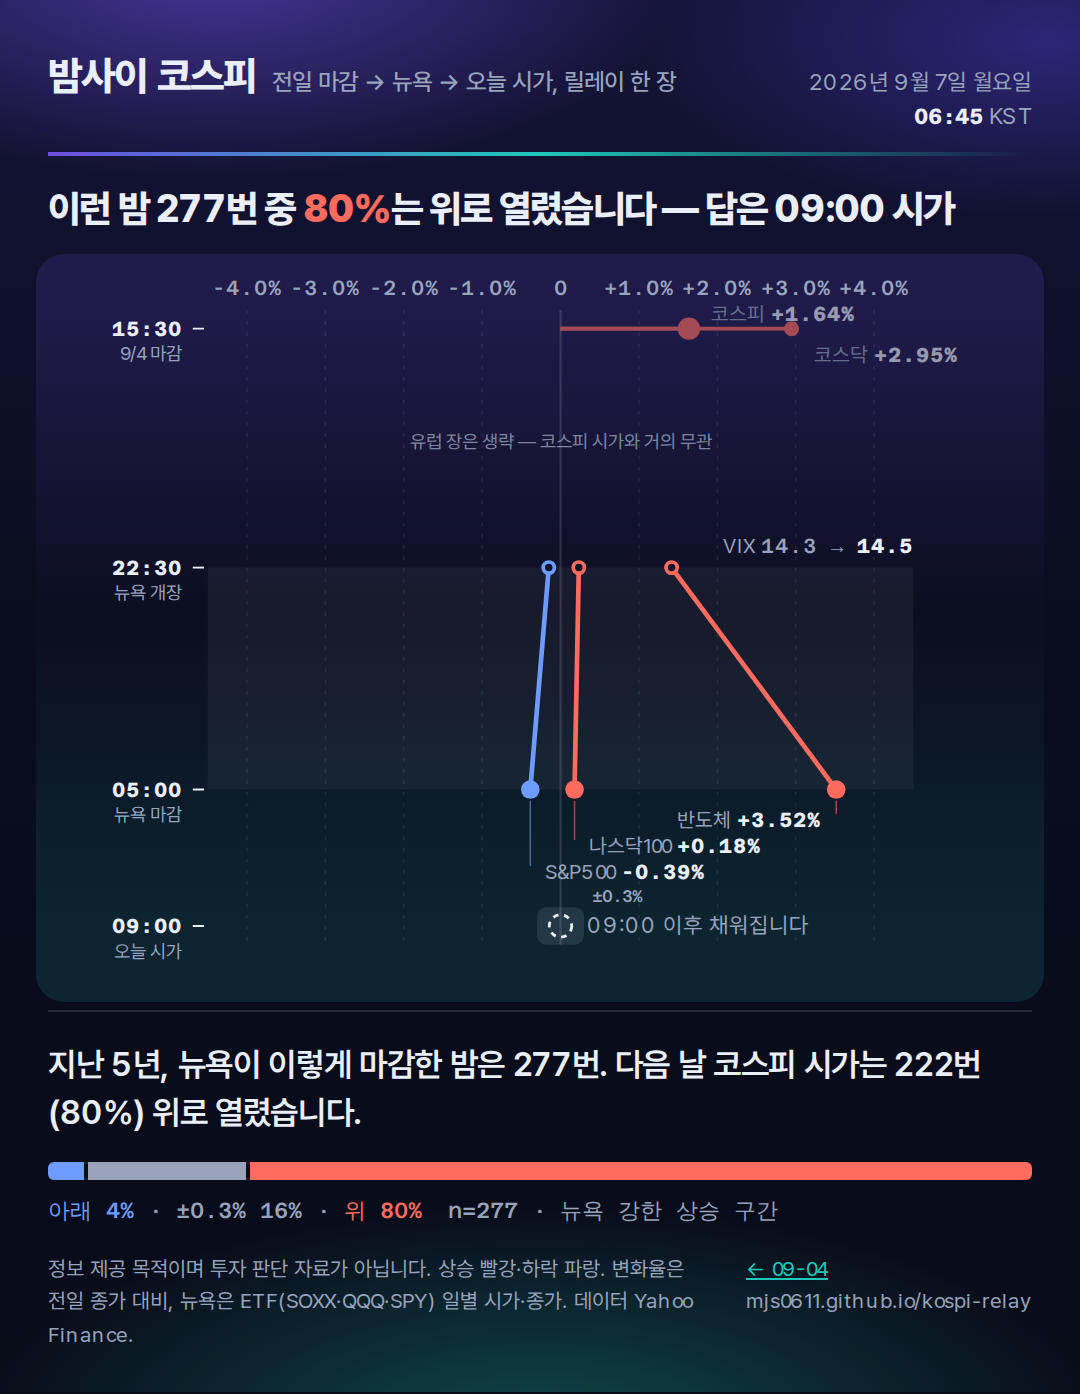
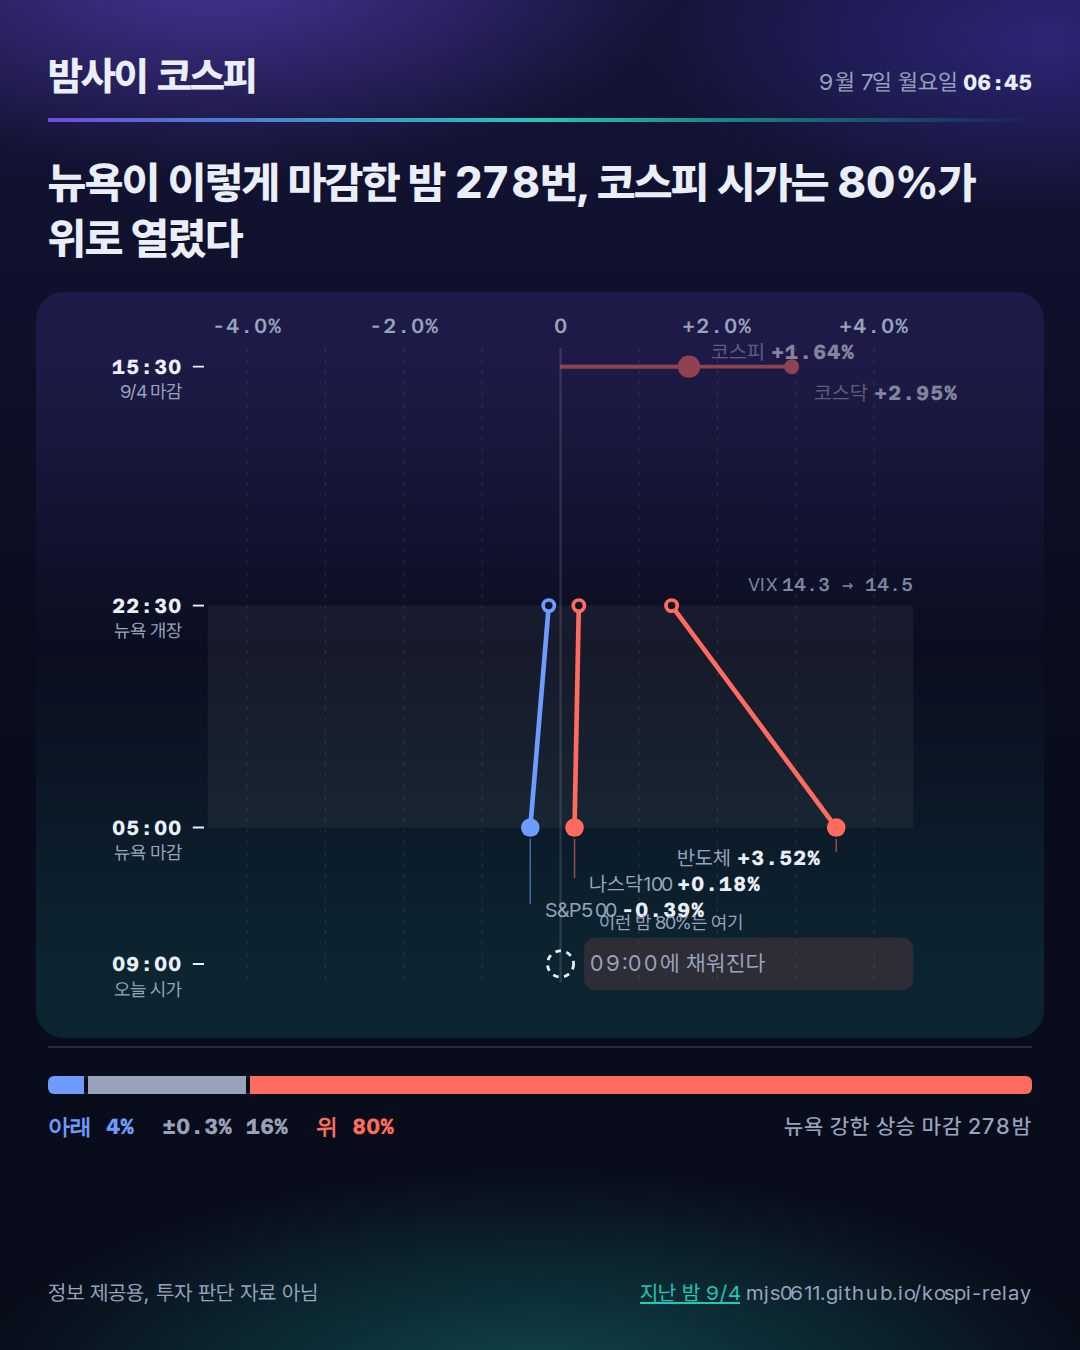
deploy: 790dfe0a87e52a687089c7923c545bd3a282e2fc

diff --git a/2026-09-07/index.html b/2026-09-07/index.html
@@ -1,7 +1,7 @@
 <!doctype html><html lang="ko"><head><meta charset="utf-8"><meta name="viewport" content="width=device-width,initial-scale=1">
 <title>밤사이 코스피 · 2026-09-07</title>
 <meta name="description" content="전일 코스피 마감에서 밤사이 뉴욕을 거쳐 오늘 코스피 시가까지, 한 장.">
-<meta property="og:title" content="밤사이 코스피 09.07"><meta property="og:image" content="https://mjs0611.github.io/kospi-relay/relay.png"><meta property="og:description" content="지난 5년, 뉴욕이 이렇게 마감한 밤은 277번. 다음 날 코스피 시가는 222번(80%) 위로 열렸습니다.">
+<meta property="og:title" content="밤사이 코스피 09.07"><meta property="og:image" content="https://mjs0611.github.io/kospi-relay/relay.png"><meta property="og:description" content="뉴욕이 이렇게 마감한 밤 278번, 코스피 시가는 80%가 위로 열렸다">
 <link rel="stylesheet" href="https://cdn.jsdelivr.net/gh/orioncactus/pretendard@v1.3.9/dist/web/variable/pretendardvariable-dynamic-subset.min.css">
 <link href="https://fonts.googleapis.com/css2?family=Azeret+Mono:wght@500;700;800&display=swap" rel="stylesheet">
 <style>
@@ -21,43 +21,37 @@ linear-gradient(180deg,#141438 0,#0A0D1E 46%,var(--void) 100%)}
 /* 원래는 잉크 실선이었다. 다크에선 밝은 실선이 제목보다 세게 튀어 스펙트럼 한 줄로 바꿈 */
 header{position:relative;display:flex;justify-content:space-between;align-items:baseline;padding-bottom:10px}
 header::after{content:"";position:absolute;left:0;right:0;bottom:0;height:1.5px;background:linear-gradient(90deg,var(--night),var(--dawn),transparent)}
-h1{font-size:20px;font-weight:800;letter-spacing:-.02em;margin:0}h1 small{font-weight:500;color:var(--muted);font-size:12px;margin-left:8px;letter-spacing:0}
+h1{font-size:20px;font-weight:800;letter-spacing:-.02em;margin:0}
 .stamp{font-size:11.5px;color:var(--muted);text-align:right;line-height:1.5;letter-spacing:-.01em;white-space:nowrap}.stamp b{font-family:var(--mono);color:var(--ink);font-weight:700;font-size:11px}
 /* ★ 시간축 광원 — SVG 세로축이 곧 시간이다(위 15:30 전일 마감 → 아래 09:00 오늘 시가).
    축은 SVG 높이의 10~90% 구간(sy가 40..H-40으로 매핑)이라 스톱을 거기 맞췄다. 장식이 아니라 제목 */
 .chart{margin:10px -6px 0;border-radius:14px;overflow:hidden;
 background:linear-gradient(180deg,rgba(108,77,224,.16) 10%,rgba(24,29,58,.05) 48%,rgba(31,200,184,.13) 90%)}
 svg{width:100%;height:auto;display:block}
-/* 헤드라인 — 카드가 던지는 질문/답. 숫자만 등락색, 나머지는 잉크 */
-.headline{font-size:19px;font-weight:800;letter-spacing:-.02em;line-height:1.35;margin:14px 0 0;word-break:keep-all}
-.headline b{font-variant-numeric:tabular-nums}.z-up{color:var(--up)}.z-down{color:var(--down)}.z-flat{color:var(--ink)}
+/* 헤드라인. 카드의 질문 또는 답, 한 문장. 색은 차트가 말한다. 글은 잉크 한 색 */
+.headline{font-size:22px;font-weight:800;letter-spacing:-.022em;line-height:1.3;margin:16px 0 2px;word-break:keep-all;font-variant-numeric:tabular-nums}
 .freq{border-top:1px solid var(--rule);padding-top:14px;margin-top:4px}
-.lede{font-size:16.5px;line-height:1.5;font-weight:600;letter-spacing:-.01em;margin:0 0 12px;word-break:keep-all}
 .bar{display:flex;height:9px;border-radius:3px;overflow:hidden;gap:2px;box-shadow:inset 0 0 0 1px rgba(255,255,255,.08)}.seg{min-width:2px}
-.legend{font-family:var(--mono);font-size:11px;margin:8px 0 0;color:var(--muted)}.legend .n{margin-left:6px}
+.legend{display:flex;gap:14px;align-items:baseline;font-family:var(--mono);font-size:11px;font-weight:700;margin:9px 0 0}.legend .n{margin-left:auto;font-family:var(--sans);font-weight:500;color:var(--muted)}
 footer{margin-top:auto;padding-top:14px;font-size:10.5px;color:var(--muted);line-height:1.55;display:flex;justify-content:space-between;gap:12px}
 footer a{color:var(--dawn)}
-@media (max-width:480px){.sheet{padding:18px 14px 16px}.lede{font-size:15px}header{flex-direction:column;align-items:flex-start;gap:4px}h1 small{display:block;margin:2px 0 0}.stamp{text-align:left}.stamp br{display:none}.stamp b{margin-left:6px}}
+@media (max-width:480px){.sheet{padding:18px 14px 16px}.lede{font-size:15px}header{flex-direction:column;align-items:flex-start;gap:4px}.stamp{text-align:left}}
 </style></head><body><div class="sheet">
-<header><h1>밤사이 코스피<small>전일 마감 → 뉴욕 → 오늘 시가, 릴레이 한 장</small></h1><div class="stamp">2026년 9월 7일 월요일<br><b>06:45</b> KST</div></header>
-<p class="headline">이런 밤 277번 중 <b class="z-up">80%</b>는 위로 열렸습니다 — 답은 09:00 시가</p>
+<header><h1>밤사이 코스피</h1><div class="stamp">9월 7일 월요일 <b>06:45</b></div></header>
+<p class="headline">뉴욕이 이렇게 마감한 밤 278번, 코스피 시가는 80%가 위로 열렸다</p>
 <div class="chart"><svg viewBox="0 0 540 400" xmlns="http://www.w3.org/2000/svg" font-family="var(--mono)" font-size="11">
 <line x1="113.0" y1="30" x2="113.0" y2="370" stroke="var(--rule)" stroke-width="0.5" stroke-dasharray="2 4"/>
 <text x="113.0" y="22" text-anchor="middle" fill="var(--muted)">-4.0%</text>
 <line x1="155.0" y1="30" x2="155.0" y2="370" stroke="var(--rule)" stroke-width="0.5" stroke-dasharray="2 4"/>
-<text x="155.0" y="22" text-anchor="middle" fill="var(--muted)">-3.0%</text>
 <line x1="197.0" y1="30" x2="197.0" y2="370" stroke="var(--rule)" stroke-width="0.5" stroke-dasharray="2 4"/>
 <text x="197.0" y="22" text-anchor="middle" fill="var(--muted)">-2.0%</text>
 <line x1="239.0" y1="30" x2="239.0" y2="370" stroke="var(--rule)" stroke-width="0.5" stroke-dasharray="2 4"/>
-<text x="239.0" y="22" text-anchor="middle" fill="var(--muted)">-1.0%</text>
 <line x1="281.0" y1="30" x2="281.0" y2="370" stroke="var(--rule)" stroke-width="1.2" />
 <text x="281.0" y="22" text-anchor="middle" fill="var(--muted)">0</text>
 <line x1="323.0" y1="30" x2="323.0" y2="370" stroke="var(--rule)" stroke-width="0.5" stroke-dasharray="2 4"/>
-<text x="323.0" y="22" text-anchor="middle" fill="var(--muted)">+1.0%</text>
 <line x1="365.0" y1="30" x2="365.0" y2="370" stroke="var(--rule)" stroke-width="0.5" stroke-dasharray="2 4"/>
 <text x="365.0" y="22" text-anchor="middle" fill="var(--muted)">+2.0%</text>
 <line x1="407.0" y1="30" x2="407.0" y2="370" stroke="var(--rule)" stroke-width="0.5" stroke-dasharray="2 4"/>
-<text x="407.0" y="22" text-anchor="middle" fill="var(--muted)">+3.0%</text>
 <line x1="449.0" y1="30" x2="449.0" y2="370" stroke="var(--rule)" stroke-width="0.5" stroke-dasharray="2 4"/>
 <text x="449.0" y="22" text-anchor="middle" fill="var(--muted)">+4.0%</text>
 <text x="78" y="44.0" text-anchor="end" fill="var(--ink)" font-weight="600">15:30</text>
@@ -72,8 +66,7 @@ footer a{color:var(--dawn)}
 <text x="78" y="364.0" text-anchor="end" fill="var(--ink)" font-weight="600">09:00</text>
 <text x="78" y="377.0" text-anchor="end" fill="var(--muted)" font-family="var(--sans)" font-size="10">오늘 시가</text>
 <line x1="84" y1="360.0" x2="90" y2="360.0" stroke="var(--ink)"/>
-<text x="281.0" y="104.0" text-anchor="middle" fill="var(--muted)" font-family="var(--sans)" font-size="10" opacity=".8">유럽 장은 생략 — 코스피 시가와 거의 무관</text>
-<g opacity=".6">
+<g opacity=".5">
 <line x1="281.0" y1="40.0" x2="404.8" y2="40.0" stroke="var(--up)" stroke-width="2"/>
 <circle cx="404.8" cy="40.0" r="4" fill="var(--up)"/>
 <text x="416.8" y="58.0" text-anchor="start" fill="var(--ink)"><tspan font-family="var(--sans)" fill="var(--muted)">코스닥 </tspan><tspan font-weight="700">+2.95%</tspan></text>
@@ -97,12 +90,12 @@ footer a{color:var(--dawn)}
 <text x="296.5" y="320.9" text-anchor="start" fill="var(--ink)"><tspan font-family="var(--sans)" fill="var(--muted)">나스닥100 </tspan><tspan font-weight="700">+0.18%</tspan></text>
 <line x1="264.8" y1="292.9" x2="264.8" y2="327.9" stroke="var(--down)" stroke-width=".8" opacity=".6"/>
 <text x="272.8" y="334.9" text-anchor="start" fill="var(--ink)"><tspan font-family="var(--sans)" fill="var(--muted)">S&P500 </tspan><tspan font-weight="700">-0.39%</tspan></text>
-<text x="470" y="160.0" text-anchor="end" fill="var(--muted)"><tspan font-family="var(--sans)">VIX </tspan>14.3 → <tspan fill="var(--ink)" font-weight="700">14.5</tspan></text>
-<rect x="268.4" y="350.0" width="25.2" height="20" rx="5" fill="var(--flat)" opacity=".16"/>
-<text x="297.6" y="347.0" fill="var(--muted)" font-size="9">±0.3%</text>
-<circle cx="281.0" cy="360.0" r="6" fill="none" stroke="var(--ink)" stroke-width="1.5" stroke-dasharray="3 3"/>
-<text x="295.0" y="364.0" fill="var(--muted)" font-family="var(--sans)" font-size="12">09:00 이후 채워집니다</text>
+<text x="470" y="160.0" text-anchor="end" fill="var(--muted)" font-size="10" opacity=".8"><tspan font-family="var(--sans)">VIX </tspan>14.3 → 14.5</text>
+<rect x="293.6" y="346.0" width="176.4" height="28" rx="6" fill="var(--up)" opacity=".14"/>
+<text x="301.6" y="341.0" text-anchor="start" fill="var(--muted)" font-family="var(--sans)" font-size="10">이런 밤 80%는 여기</text>
+<circle cx="281.0" cy="360.0" r="7" fill="none" stroke="var(--ink)" stroke-width="1.5" stroke-dasharray="3 3"/>
+<text x="297.0" y="364.0" fill="var(--muted)" font-family="var(--sans)" font-size="12">09:00에 채워진다</text>
 </svg></div>
-<section class="freq"><p class="lede">지난 5년, 뉴욕이 이렇게 마감한 밤은 277번. 다음 날 코스피 시가는 222번(80%) 위로 열렸습니다.</p><div class="bar"><div class="seg" style="flex:10;background:var(--down)" title="아래 10"></div><div class="seg" style="flex:45;background:var(--flat)" title="보합 45"></div><div class="seg" style="flex:222;background:var(--up)" title="위 222"></div></div><p class="legend"><span style="color:var(--down)">아래 4%</span> · <span style="color:var(--flat)">±0.3% 16%</span> · <span style="color:var(--up)">위 80%</span> <span class="n">n=277 · 뉴욕 강한 상승 구간</span></p></section>
-<footer><span>정보 제공 목적이며 투자 판단 자료가 아닙니다. 상승 빨강·하락 파랑. 변화율은 전일 종가 대비, 뉴욕은 ETF(SOXX·QQQ·SPY) 일별 시가·종가. 데이터 Yahoo Finance.</span><span style="white-space:nowrap"><a href="../2026-09-04/">← 09-04</a><br>mjs0611.github.io/kospi-relay</span></footer>
+<section class="freq"><div class="bar"><div class="seg" style="flex:10;background:var(--down)"></div><div class="seg" style="flex:45;background:var(--flat)"></div><div class="seg" style="flex:223;background:var(--up)"></div></div><p class="legend"><span style="color:var(--down)">아래 4%</span><span style="color:var(--flat)">±0.3% 16%</span><span style="color:var(--up)">위 80%</span><span class="n">뉴욕 강한 상승 마감 278밤</span></p></section>
+<footer><span>정보 제공용, 투자 판단 자료 아님</span><span style="white-space:nowrap"><a href="../2026-09-04/">지난 밤 9/4</a> mjs0611.github.io/kospi-relay</span></footer>
 </div></body></html>

diff --git a/index.html b/index.html
@@ -1,7 +1,7 @@
 <!doctype html><html lang="ko"><head><meta charset="utf-8"><meta name="viewport" content="width=device-width,initial-scale=1">
 <title>밤사이 코스피 · 2026-09-07</title>
 <meta name="description" content="전일 코스피 마감에서 밤사이 뉴욕을 거쳐 오늘 코스피 시가까지, 한 장.">
-<meta property="og:title" content="밤사이 코스피 09.07"><meta property="og:image" content="https://mjs0611.github.io/kospi-relay/relay.png"><meta property="og:description" content="지난 5년, 뉴욕이 이렇게 마감한 밤은 277번. 다음 날 코스피 시가는 222번(80%) 위로 열렸습니다.">
+<meta property="og:title" content="밤사이 코스피 09.07"><meta property="og:image" content="https://mjs0611.github.io/kospi-relay/relay.png"><meta property="og:description" content="뉴욕이 이렇게 마감한 밤 278번, 코스피 시가는 80%가 위로 열렸다">
 <link rel="stylesheet" href="https://cdn.jsdelivr.net/gh/orioncactus/pretendard@v1.3.9/dist/web/variable/pretendardvariable-dynamic-subset.min.css">
 <link href="https://fonts.googleapis.com/css2?family=Azeret+Mono:wght@500;700;800&display=swap" rel="stylesheet">
 <style>
@@ -21,43 +21,37 @@ linear-gradient(180deg,#141438 0,#0A0D1E 46%,var(--void) 100%)}
 /* 원래는 잉크 실선이었다. 다크에선 밝은 실선이 제목보다 세게 튀어 스펙트럼 한 줄로 바꿈 */
 header{position:relative;display:flex;justify-content:space-between;align-items:baseline;padding-bottom:10px}
 header::after{content:"";position:absolute;left:0;right:0;bottom:0;height:1.5px;background:linear-gradient(90deg,var(--night),var(--dawn),transparent)}
-h1{font-size:20px;font-weight:800;letter-spacing:-.02em;margin:0}h1 small{font-weight:500;color:var(--muted);font-size:12px;margin-left:8px;letter-spacing:0}
+h1{font-size:20px;font-weight:800;letter-spacing:-.02em;margin:0}
 .stamp{font-size:11.5px;color:var(--muted);text-align:right;line-height:1.5;letter-spacing:-.01em;white-space:nowrap}.stamp b{font-family:var(--mono);color:var(--ink);font-weight:700;font-size:11px}
 /* ★ 시간축 광원 — SVG 세로축이 곧 시간이다(위 15:30 전일 마감 → 아래 09:00 오늘 시가).
    축은 SVG 높이의 10~90% 구간(sy가 40..H-40으로 매핑)이라 스톱을 거기 맞췄다. 장식이 아니라 제목 */
 .chart{margin:10px -6px 0;border-radius:14px;overflow:hidden;
 background:linear-gradient(180deg,rgba(108,77,224,.16) 10%,rgba(24,29,58,.05) 48%,rgba(31,200,184,.13) 90%)}
 svg{width:100%;height:auto;display:block}
-/* 헤드라인 — 카드가 던지는 질문/답. 숫자만 등락색, 나머지는 잉크 */
-.headline{font-size:19px;font-weight:800;letter-spacing:-.02em;line-height:1.35;margin:14px 0 0;word-break:keep-all}
-.headline b{font-variant-numeric:tabular-nums}.z-up{color:var(--up)}.z-down{color:var(--down)}.z-flat{color:var(--ink)}
+/* 헤드라인. 카드의 질문 또는 답, 한 문장. 색은 차트가 말한다. 글은 잉크 한 색 */
+.headline{font-size:22px;font-weight:800;letter-spacing:-.022em;line-height:1.3;margin:16px 0 2px;word-break:keep-all;font-variant-numeric:tabular-nums}
 .freq{border-top:1px solid var(--rule);padding-top:14px;margin-top:4px}
-.lede{font-size:16.5px;line-height:1.5;font-weight:600;letter-spacing:-.01em;margin:0 0 12px;word-break:keep-all}
 .bar{display:flex;height:9px;border-radius:3px;overflow:hidden;gap:2px;box-shadow:inset 0 0 0 1px rgba(255,255,255,.08)}.seg{min-width:2px}
-.legend{font-family:var(--mono);font-size:11px;margin:8px 0 0;color:var(--muted)}.legend .n{margin-left:6px}
+.legend{display:flex;gap:14px;align-items:baseline;font-family:var(--mono);font-size:11px;font-weight:700;margin:9px 0 0}.legend .n{margin-left:auto;font-family:var(--sans);font-weight:500;color:var(--muted)}
 footer{margin-top:auto;padding-top:14px;font-size:10.5px;color:var(--muted);line-height:1.55;display:flex;justify-content:space-between;gap:12px}
 footer a{color:var(--dawn)}
-@media (max-width:480px){.sheet{padding:18px 14px 16px}.lede{font-size:15px}header{flex-direction:column;align-items:flex-start;gap:4px}h1 small{display:block;margin:2px 0 0}.stamp{text-align:left}.stamp br{display:none}.stamp b{margin-left:6px}}
+@media (max-width:480px){.sheet{padding:18px 14px 16px}.lede{font-size:15px}header{flex-direction:column;align-items:flex-start;gap:4px}.stamp{text-align:left}}
 </style></head><body><div class="sheet">
-<header><h1>밤사이 코스피<small>전일 마감 → 뉴욕 → 오늘 시가, 릴레이 한 장</small></h1><div class="stamp">2026년 9월 7일 월요일<br><b>06:45</b> KST</div></header>
-<p class="headline">이런 밤 277번 중 <b class="z-up">80%</b>는 위로 열렸습니다 — 답은 09:00 시가</p>
+<header><h1>밤사이 코스피</h1><div class="stamp">9월 7일 월요일 <b>06:45</b></div></header>
+<p class="headline">뉴욕이 이렇게 마감한 밤 278번, 코스피 시가는 80%가 위로 열렸다</p>
 <div class="chart"><svg viewBox="0 0 540 400" xmlns="http://www.w3.org/2000/svg" font-family="var(--mono)" font-size="11">
 <line x1="113.0" y1="30" x2="113.0" y2="370" stroke="var(--rule)" stroke-width="0.5" stroke-dasharray="2 4"/>
 <text x="113.0" y="22" text-anchor="middle" fill="var(--muted)">-4.0%</text>
 <line x1="155.0" y1="30" x2="155.0" y2="370" stroke="var(--rule)" stroke-width="0.5" stroke-dasharray="2 4"/>
-<text x="155.0" y="22" text-anchor="middle" fill="var(--muted)">-3.0%</text>
 <line x1="197.0" y1="30" x2="197.0" y2="370" stroke="var(--rule)" stroke-width="0.5" stroke-dasharray="2 4"/>
 <text x="197.0" y="22" text-anchor="middle" fill="var(--muted)">-2.0%</text>
 <line x1="239.0" y1="30" x2="239.0" y2="370" stroke="var(--rule)" stroke-width="0.5" stroke-dasharray="2 4"/>
-<text x="239.0" y="22" text-anchor="middle" fill="var(--muted)">-1.0%</text>
 <line x1="281.0" y1="30" x2="281.0" y2="370" stroke="var(--rule)" stroke-width="1.2" />
 <text x="281.0" y="22" text-anchor="middle" fill="var(--muted)">0</text>
 <line x1="323.0" y1="30" x2="323.0" y2="370" stroke="var(--rule)" stroke-width="0.5" stroke-dasharray="2 4"/>
-<text x="323.0" y="22" text-anchor="middle" fill="var(--muted)">+1.0%</text>
 <line x1="365.0" y1="30" x2="365.0" y2="370" stroke="var(--rule)" stroke-width="0.5" stroke-dasharray="2 4"/>
 <text x="365.0" y="22" text-anchor="middle" fill="var(--muted)">+2.0%</text>
 <line x1="407.0" y1="30" x2="407.0" y2="370" stroke="var(--rule)" stroke-width="0.5" stroke-dasharray="2 4"/>
-<text x="407.0" y="22" text-anchor="middle" fill="var(--muted)">+3.0%</text>
 <line x1="449.0" y1="30" x2="449.0" y2="370" stroke="var(--rule)" stroke-width="0.5" stroke-dasharray="2 4"/>
 <text x="449.0" y="22" text-anchor="middle" fill="var(--muted)">+4.0%</text>
 <text x="78" y="44.0" text-anchor="end" fill="var(--ink)" font-weight="600">15:30</text>
@@ -72,8 +66,7 @@ footer a{color:var(--dawn)}
 <text x="78" y="364.0" text-anchor="end" fill="var(--ink)" font-weight="600">09:00</text>
 <text x="78" y="377.0" text-anchor="end" fill="var(--muted)" font-family="var(--sans)" font-size="10">오늘 시가</text>
 <line x1="84" y1="360.0" x2="90" y2="360.0" stroke="var(--ink)"/>
-<text x="281.0" y="104.0" text-anchor="middle" fill="var(--muted)" font-family="var(--sans)" font-size="10" opacity=".8">유럽 장은 생략 — 코스피 시가와 거의 무관</text>
-<g opacity=".6">
+<g opacity=".5">
 <line x1="281.0" y1="40.0" x2="404.8" y2="40.0" stroke="var(--up)" stroke-width="2"/>
 <circle cx="404.8" cy="40.0" r="4" fill="var(--up)"/>
 <text x="416.8" y="58.0" text-anchor="start" fill="var(--ink)"><tspan font-family="var(--sans)" fill="var(--muted)">코스닥 </tspan><tspan font-weight="700">+2.95%</tspan></text>
@@ -97,12 +90,12 @@ footer a{color:var(--dawn)}
 <text x="296.5" y="320.9" text-anchor="start" fill="var(--ink)"><tspan font-family="var(--sans)" fill="var(--muted)">나스닥100 </tspan><tspan font-weight="700">+0.18%</tspan></text>
 <line x1="264.8" y1="292.9" x2="264.8" y2="327.9" stroke="var(--down)" stroke-width=".8" opacity=".6"/>
 <text x="272.8" y="334.9" text-anchor="start" fill="var(--ink)"><tspan font-family="var(--sans)" fill="var(--muted)">S&P500 </tspan><tspan font-weight="700">-0.39%</tspan></text>
-<text x="470" y="160.0" text-anchor="end" fill="var(--muted)"><tspan font-family="var(--sans)">VIX </tspan>14.3 → <tspan fill="var(--ink)" font-weight="700">14.5</tspan></text>
-<rect x="268.4" y="350.0" width="25.2" height="20" rx="5" fill="var(--flat)" opacity=".16"/>
-<text x="297.6" y="347.0" fill="var(--muted)" font-size="9">±0.3%</text>
-<circle cx="281.0" cy="360.0" r="6" fill="none" stroke="var(--ink)" stroke-width="1.5" stroke-dasharray="3 3"/>
-<text x="295.0" y="364.0" fill="var(--muted)" font-family="var(--sans)" font-size="12">09:00 이후 채워집니다</text>
+<text x="470" y="160.0" text-anchor="end" fill="var(--muted)" font-size="10" opacity=".8"><tspan font-family="var(--sans)">VIX </tspan>14.3 → 14.5</text>
+<rect x="293.6" y="346.0" width="176.4" height="28" rx="6" fill="var(--up)" opacity=".14"/>
+<text x="301.6" y="341.0" text-anchor="start" fill="var(--muted)" font-family="var(--sans)" font-size="10">이런 밤 80%는 여기</text>
+<circle cx="281.0" cy="360.0" r="7" fill="none" stroke="var(--ink)" stroke-width="1.5" stroke-dasharray="3 3"/>
+<text x="297.0" y="364.0" fill="var(--muted)" font-family="var(--sans)" font-size="12">09:00에 채워진다</text>
 </svg></div>
-<section class="freq"><p class="lede">지난 5년, 뉴욕이 이렇게 마감한 밤은 277번. 다음 날 코스피 시가는 222번(80%) 위로 열렸습니다.</p><div class="bar"><div class="seg" style="flex:10;background:var(--down)" title="아래 10"></div><div class="seg" style="flex:45;background:var(--flat)" title="보합 45"></div><div class="seg" style="flex:222;background:var(--up)" title="위 222"></div></div><p class="legend"><span style="color:var(--down)">아래 4%</span> · <span style="color:var(--flat)">±0.3% 16%</span> · <span style="color:var(--up)">위 80%</span> <span class="n">n=277 · 뉴욕 강한 상승 구간</span></p></section>
-<footer><span>정보 제공 목적이며 투자 판단 자료가 아닙니다. 상승 빨강·하락 파랑. 변화율은 전일 종가 대비, 뉴욕은 ETF(SOXX·QQQ·SPY) 일별 시가·종가. 데이터 Yahoo Finance.</span><span style="white-space:nowrap"><a href="./2026-09-04/">← 09-04</a><br>mjs0611.github.io/kospi-relay</span></footer>
+<section class="freq"><div class="bar"><div class="seg" style="flex:10;background:var(--down)"></div><div class="seg" style="flex:45;background:var(--flat)"></div><div class="seg" style="flex:223;background:var(--up)"></div></div><p class="legend"><span style="color:var(--down)">아래 4%</span><span style="color:var(--flat)">±0.3% 16%</span><span style="color:var(--up)">위 80%</span><span class="n">뉴욕 강한 상승 마감 278밤</span></p></section>
+<footer><span>정보 제공용, 투자 판단 자료 아님</span><span style="white-space:nowrap"><a href="./2026-09-04/">지난 밤 9/4</a> mjs0611.github.io/kospi-relay</span></footer>
 </div></body></html>
